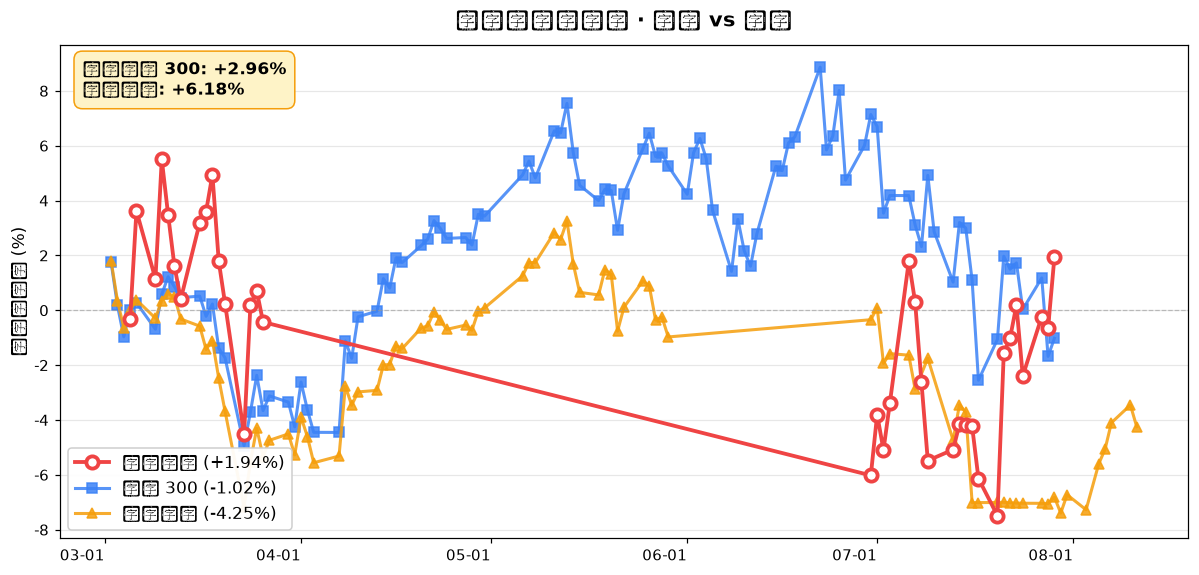
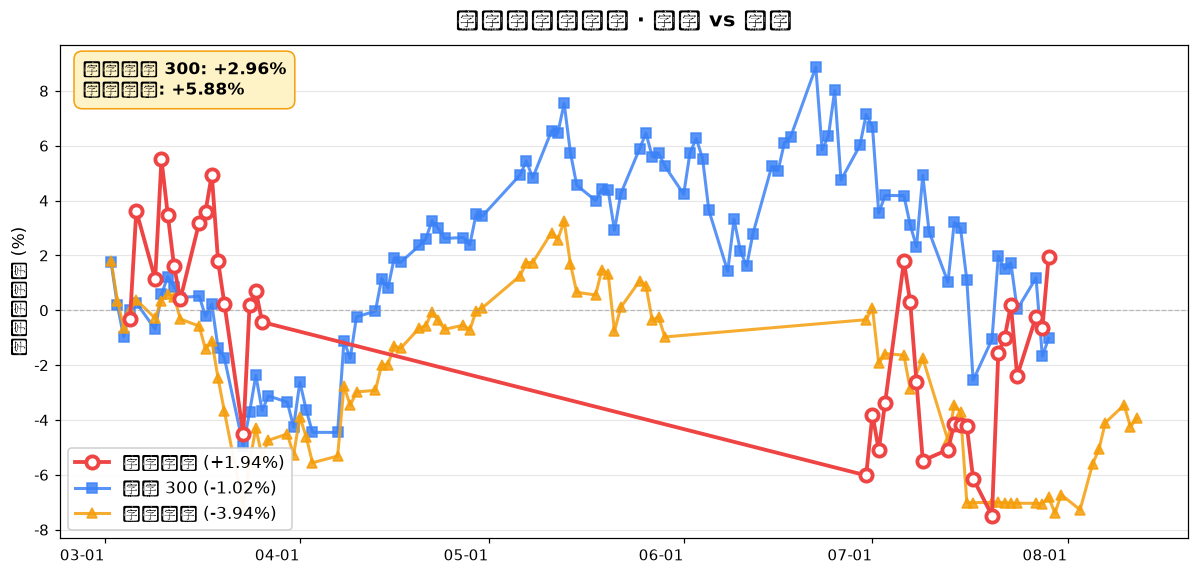
deploy dashboard 2026-08-13

diff --git a/dashboard/index.html b/dashboard/index.html
@@ -111,7 +111,7 @@
 
 <div class="header">
   <h1 data-i18n="title">📊 持仓 Dashboard</h1>
-  <div class="date">2026-08-12 · 更新于 08:39</div>
+  <div class="date">2026-08-12 · 更新于 08:20</div>
 </div>
 
 <div class="hero-pnl" style="padding:16px">
@@ -157,7 +157,7 @@
 
 <div class="excess">
         <b>🔴 跑赢 沪深 300</b>: +2.96%<br>
-        <b>🔴 跑赢 上证指数</b>: +6.18%
+        <b>🔴 跑赢 上证指数</b>: +5.88%
     </div>
 
 <div class="section">
